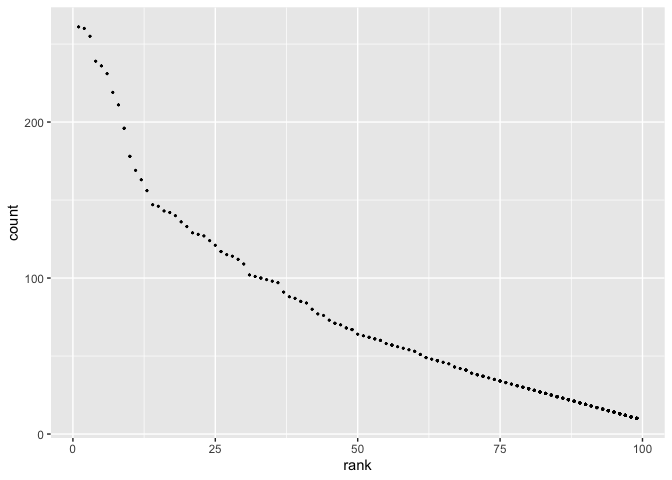
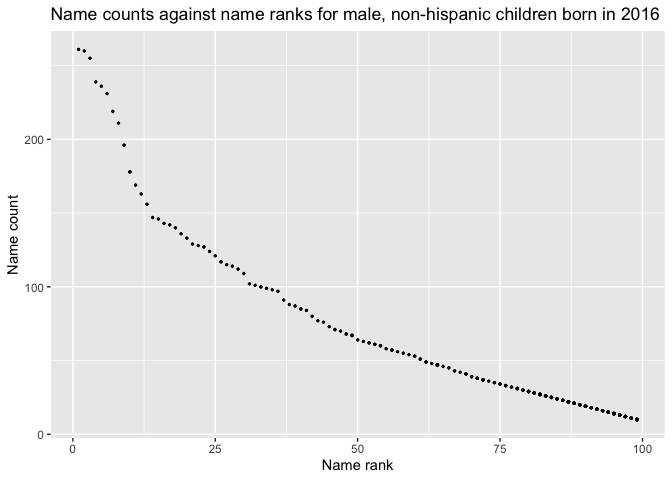
finishing up hw2

diff --git a/p8105_hw2_smm2350.md b/p8105_hw2_smm2350.md
@@ -7,10 +7,12 @@ Shaina Mackin
 
 ## Problem 1
 
-First, I will read and clean the Mr. Trash Wheel sheet, including
-specifying the sheet and omitting non-data entries using `read_excel`,
-using reasonable variable names, omitting rows without dumpster-specific
-data, and rounding the number of sports balls to the nearest integer:
+### First, I will read and clean the Mr. Trash Wheel sheet.
+
+This includes specifying the sheet and omitting non-data entries using
+`read_excel`, using reasonable variable names, omitting rows without
+dumpster-specific data, and rounding the number of sports balls to the
+nearest integer:
 
 ``` r
 trash_df = 
@@ -23,9 +25,10 @@ drop_na() %>%
 mutate(sports_balls = round(sports_balls), digits = 0)
 ```
 
-Second, I will read and clean the precipitation data for 2018 and 2019,
-including omitting rows without precipitation data and adding a variable
-for year:
+### Second, I will read and clean the precipitation data for 2018 and 2019.
+
+This includes omitting rows without precipitation data and adding a
+variable for year:
 
 ``` r
 precip2018_df = 
@@ -47,8 +50,9 @@ drop_na() %>%
 mutate(year = 2019)
 ```
 
-Next, I will combine the two precipitation datasets and convert month to
-a character variable:
+### Next, I will combine the two precipitation datasets.
+
+I will also convert month to a character variable:
 
 ``` r
 precip_df = 
@@ -56,6 +60,8 @@ precip_df =
   janitor::clean_names() %>%
   mutate(month = month.name[as.numeric(month)])
 ```
+
+### Data description:
 
 The Mr. Trash Wheel dataset has 486 observations. The median number of
 sports balls in a dumpster in 2019 was 9 balls. In addition to sports
@@ -68,7 +74,7 @@ year.
 
 ## Problem 2
 
-I will now clean the data in the `pols` and `snp` datasets.
+### I will clean the `pols` and `snp` datasets.
 
 ``` r
 pols_df = 
@@ -115,8 +121,9 @@ snp_df =
     ## ℹ Use `spec()` to retrieve the full column specification for this data.
     ## ℹ Specify the column types or set `show_col_types = FALSE` to quiet this message.
 
-Next, I will tidy the `unemployment` data so that it can be merged with
-the previous datasets.
+### Next, I will tidy the `unemployment` data.
+
+This will let me merge it with the previous datasets later:
 
 ``` r
 unemployment_df = read_csv("data files/fivethirtyeight_datasets/unemployment.csv")
@@ -154,8 +161,10 @@ unemployment_tidy_df =
     ## ℹ Use `spec()` to retrieve the full column specification for this data.
     ## ℹ Specify the column types or set `show_col_types = FALSE` to quiet this message.
 
-Lastly, I will join the datasets by first merging `snp` and `pols` and
-then merging `unemployment` into the result.
+### Lastly, I will join the datasets.
+
+First, I will merge `snp` and `pols`; then I will merge `unemployment`
+into the result:
 
 ``` r
 snp_pols_df = 
@@ -164,6 +173,8 @@ snp_pols_df =
 snp_pols_unemploy_df = 
   left_join(snp_pols_df, unemployment_tidy_df, by = c("year", "month"))
 ```
+
+### Data description:
 
 The `pols` dataset contained 822 observations, or dates, ranging from
 1947 to 2015, with 9 variables all related to the number of `gop` or
@@ -213,7 +224,9 @@ babies_df =
 
 ``` r
 olivia_df = 
-  filter(babies_df, childs_first_name == "olivia", gender == "female") %>%
+  filter(babies_df, childs_first_name == "olivia", gender == "female")
+
+olivia_df %>%
   select(-gender, -childs_first_name, -count) %>%
   pivot_wider(
     names_from = "year_of_birth",
@@ -222,9 +235,21 @@ olivia_df =
 knitr::kable(caption = "Rank in popularity of Olivia as a female baby name over time, by ethnicity")
 ```
 
+| ethnicity                  | 2016 | 2015 | 2014 | 2013 | 2012 | 2011 |
+|:---------------------------|-----:|-----:|-----:|-----:|-----:|-----:|
+| asian and pacific islander |    1 |    1 |    1 |    3 |    3 |    4 |
+| black non hispanic         |    8 |    4 |    8 |    6 |    8 |   10 |
+| hispanic                   |   13 |   16 |   16 |   22 |   22 |   18 |
+| white non hispanic         |    1 |    1 |    1 |    1 |    4 |    2 |
+
+Rank in popularity of Olivia as a female baby name over time, by
+ethnicity
+
 ``` r
 male_df = 
-  filter(babies_df, gender == "male", rank == 1) %>%
+  filter(babies_df, gender == "male", rank == 1) 
+
+male_df %>%
   select(-gender, -count, -rank) %>%
   pivot_wider(
     names_from = "year_of_birth",
@@ -233,7 +258,16 @@ male_df =
 knitr::kable(caption = "Most popular male baby name over time, by ethnicity")
 ```
 
-### Lastly, for male, white non-hispanic children born in 2016, I will make a scatter plot showing the number of children with a name against the rank in popularity of that name.
+| ethnicity                  | 2016   | 2015   | 2014   | 2013   | 2012   | 2011    |
+|:---------------------------|:-------|:-------|:-------|:-------|:-------|:--------|
+| asian and pacific islander | ethan  | jayden | jayden | jayden | ryan   | ethan   |
+| black non hispanic         | noah   | noah   | ethan  | ethan  | jayden | jayden  |
+| hispanic                   | liam   | liam   | liam   | jayden | jayden | jayden  |
+| white non hispanic         | joseph | david  | joseph | david  | joseph | michael |
+
+Most popular male baby name over time, by ethnicity
+
+### Lastly, I will make a scatter plot.
 
 ``` r
 male2016_df = 
@@ -242,7 +276,11 @@ male2016_df =
 
 male2016_df %>%
   ggplot(aes(x = rank, y = count)) +
-  geom_point(size = .4) 
+  geom_point(size = .5) +
+  labs(
+    title = "Name counts against name ranks for male, non-hispanic children born in 2016",
+    x = "Name rank",
+    y = "Name count")
 ```
 
 ![](p8105_hw2_smm2350_files/figure-gfm/male2016_plot-1.png)<!-- -->
